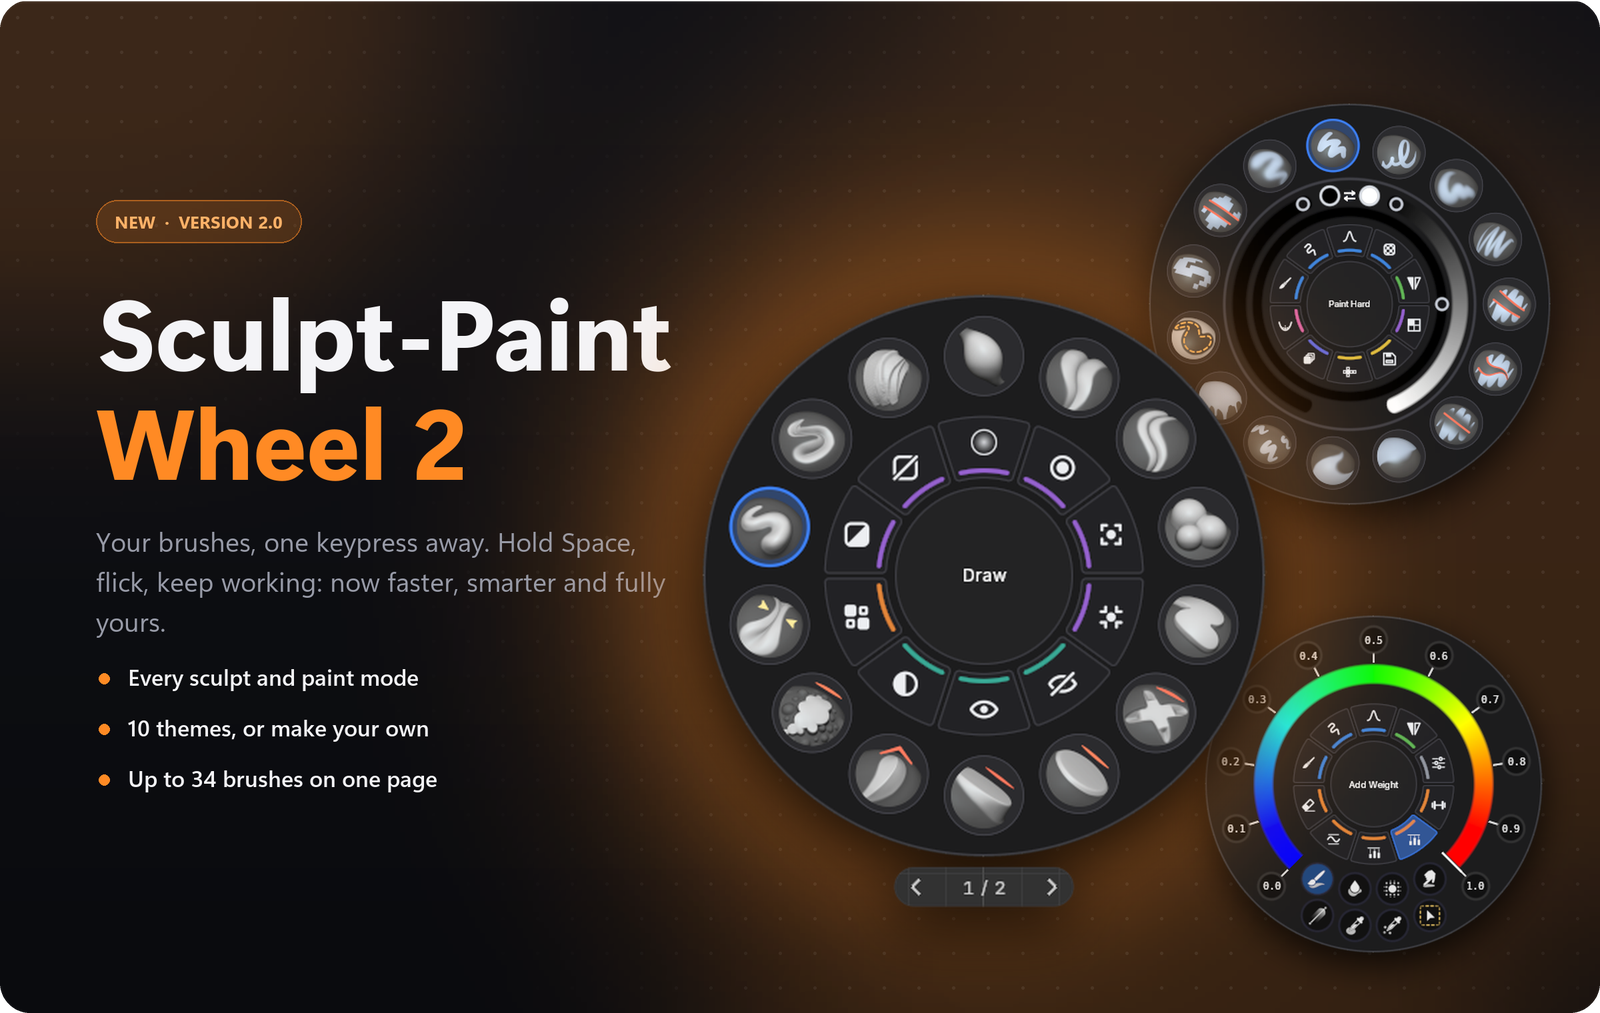
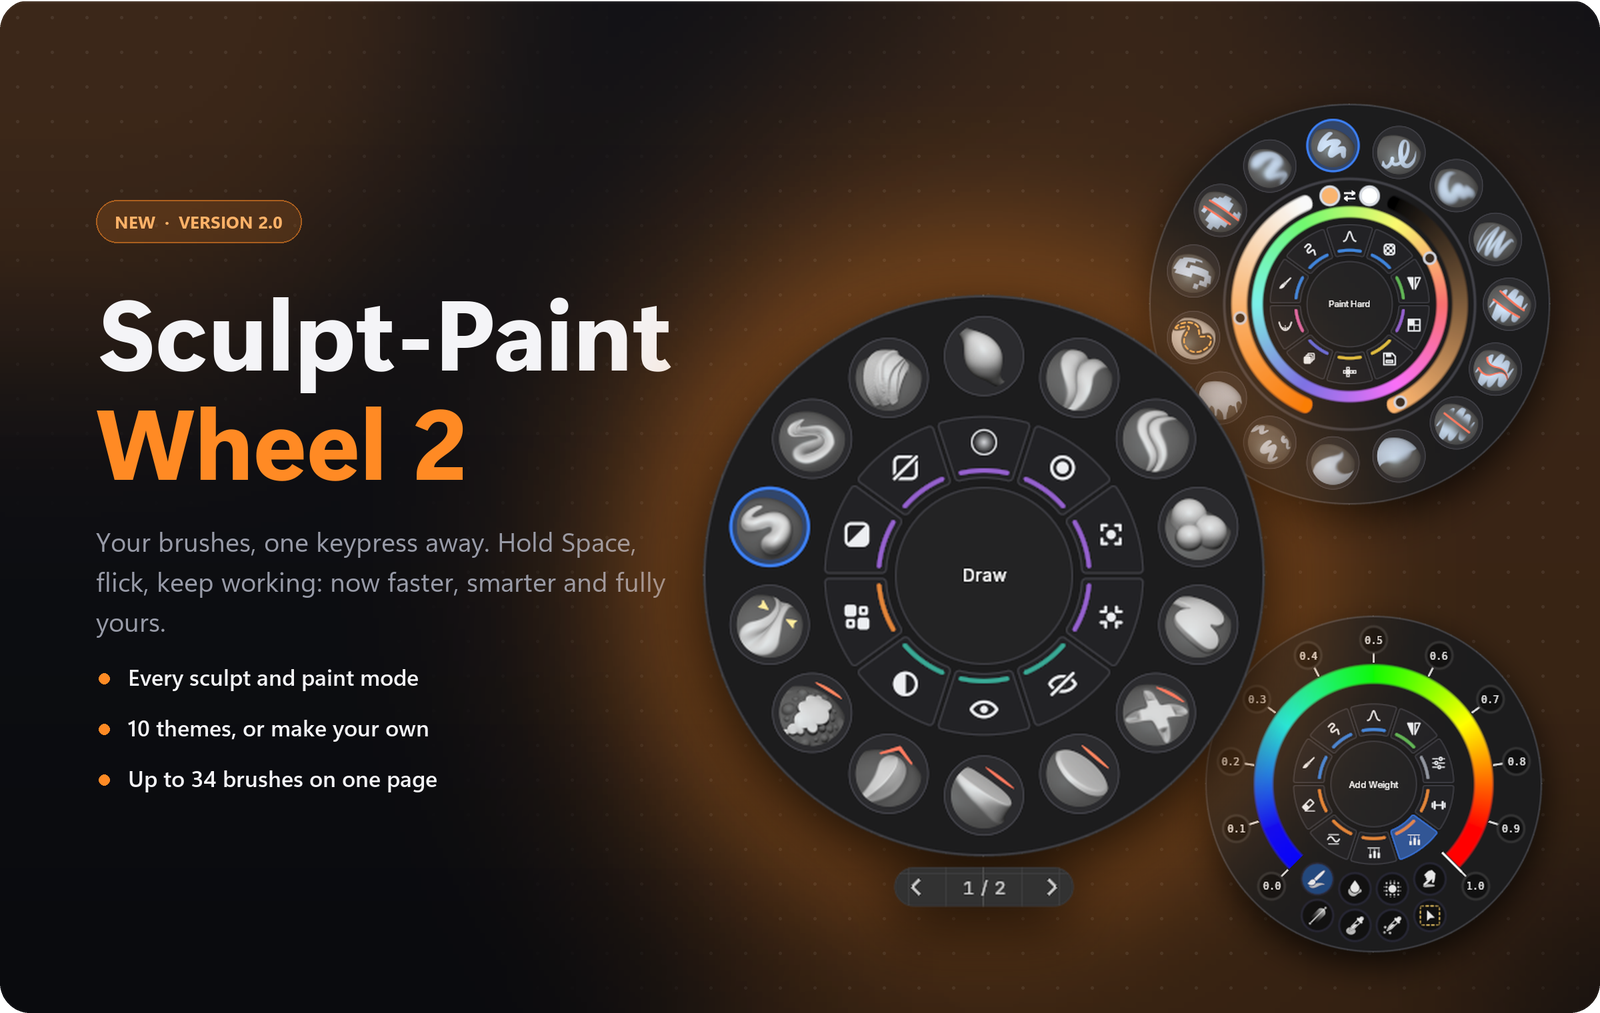
Store: main image with a warm color in the Texture Paint color picker (not black)
capture_v2.py gives the Texture Paint brush a warm orange before capturing.

Changed region(s): [[0.75, 0.1836, 0.9375, 0.3978]]

diff --git a/store/tools/capture_v2.py b/store/tools/capture_v2.py
@@ -104,6 +104,15 @@ def setup(kind, mode):
             ob = bpy.context.object
             ob.data.materials.append(bpy.data.materials.new("Paint"))
             bpy.ops.paint.add_texture_paint_slot(type='BASE_COLOR', color=(0.55, 0.62, 0.8, 1.0), width=1024, height=1024)
+            # A warm brush color, so the wheel's color picker shows a color (the default is black).
+            ts = bpy.context.tool_settings
+            warm = (0.96, 0.46, 0.16)
+            ups = getattr(ts, "unified_paint_settings", None)
+            if ups is not None and hasattr(ups, "color"):
+                ups.color = warm
+            brush = getattr(ts.image_paint, "brush", None)
+            if brush is not None and hasattr(brush, "color"):
+                brush.color = warm
     if PART not in ("themes_live", "tints_live"):
         # Cut-out shots: the object far away behind the wheel and no floor grid, so the translucent page pill
         # only shows the plain viewport background.
